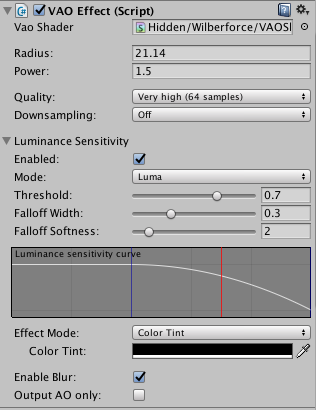
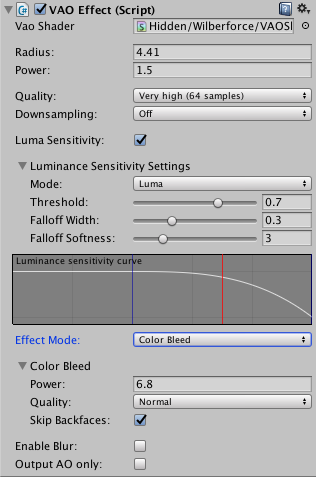
new branch for vaomanual v1.4

diff --git a/vaomanual/index.md b/vaomanual/index.md
@@ -112,10 +112,16 @@ Reduces occlusion on bright surfaces - either light sources or strongly lit area
 ![](vao.jpg)
 -->
 
+
 **Effect Mode**
 
 - *Simple*: Black color occlusion.
 - *Color Tint*: Custom-set occlusion color. 
+- *Color Bleed*: Occlusion color is changed by the color of nearby surfaces (see below for more detail).
+
+**Color Bleed**
+
+lorem ipsum.
 
 **Enable Blur**
 
